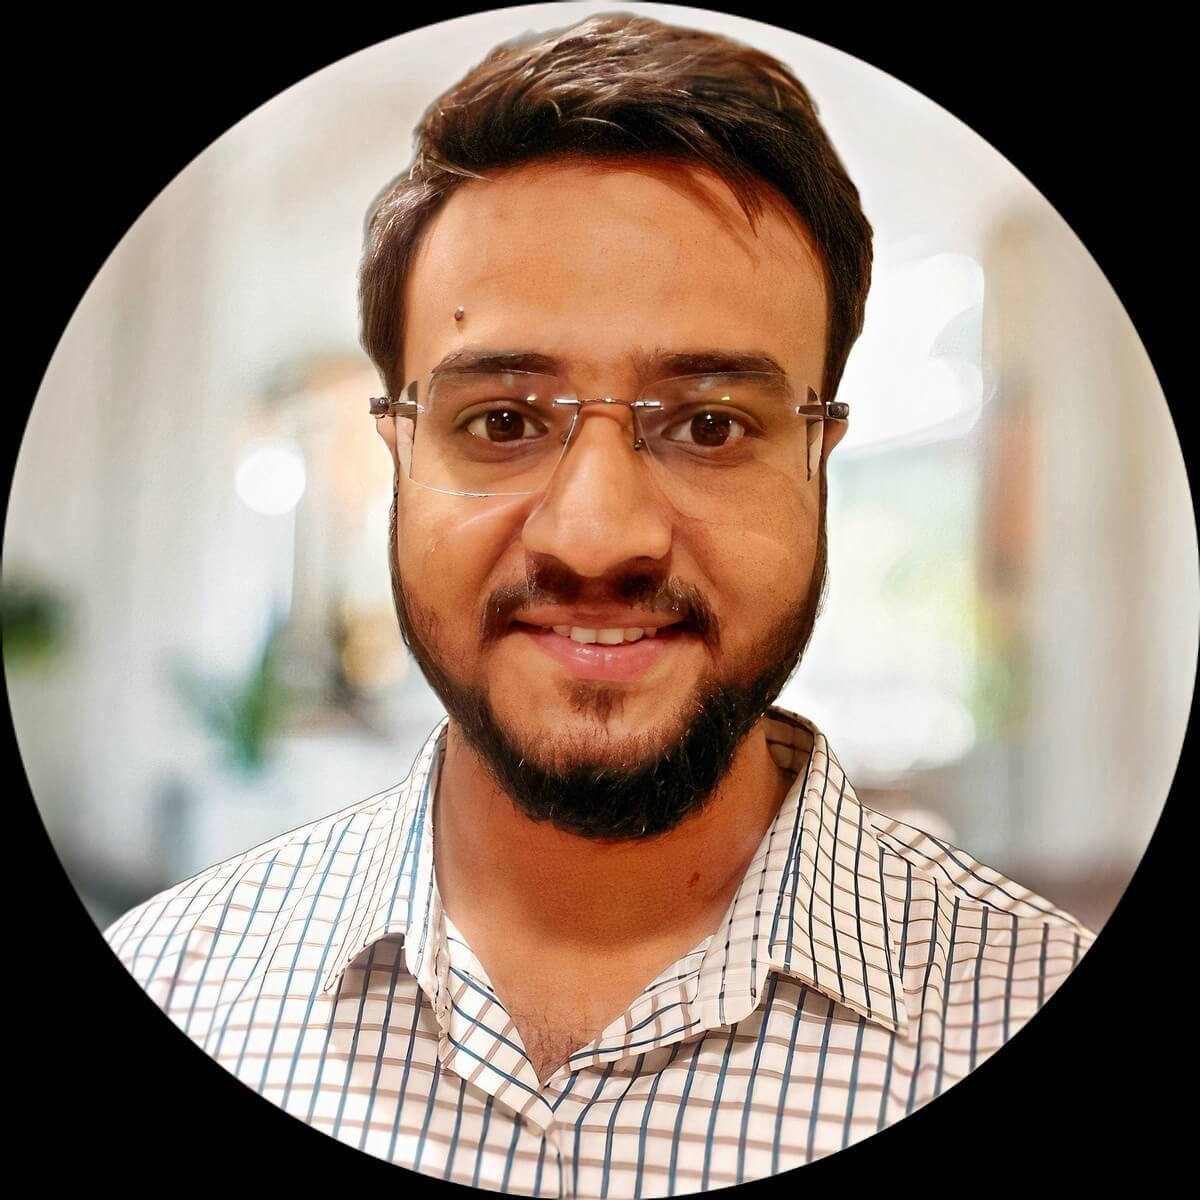
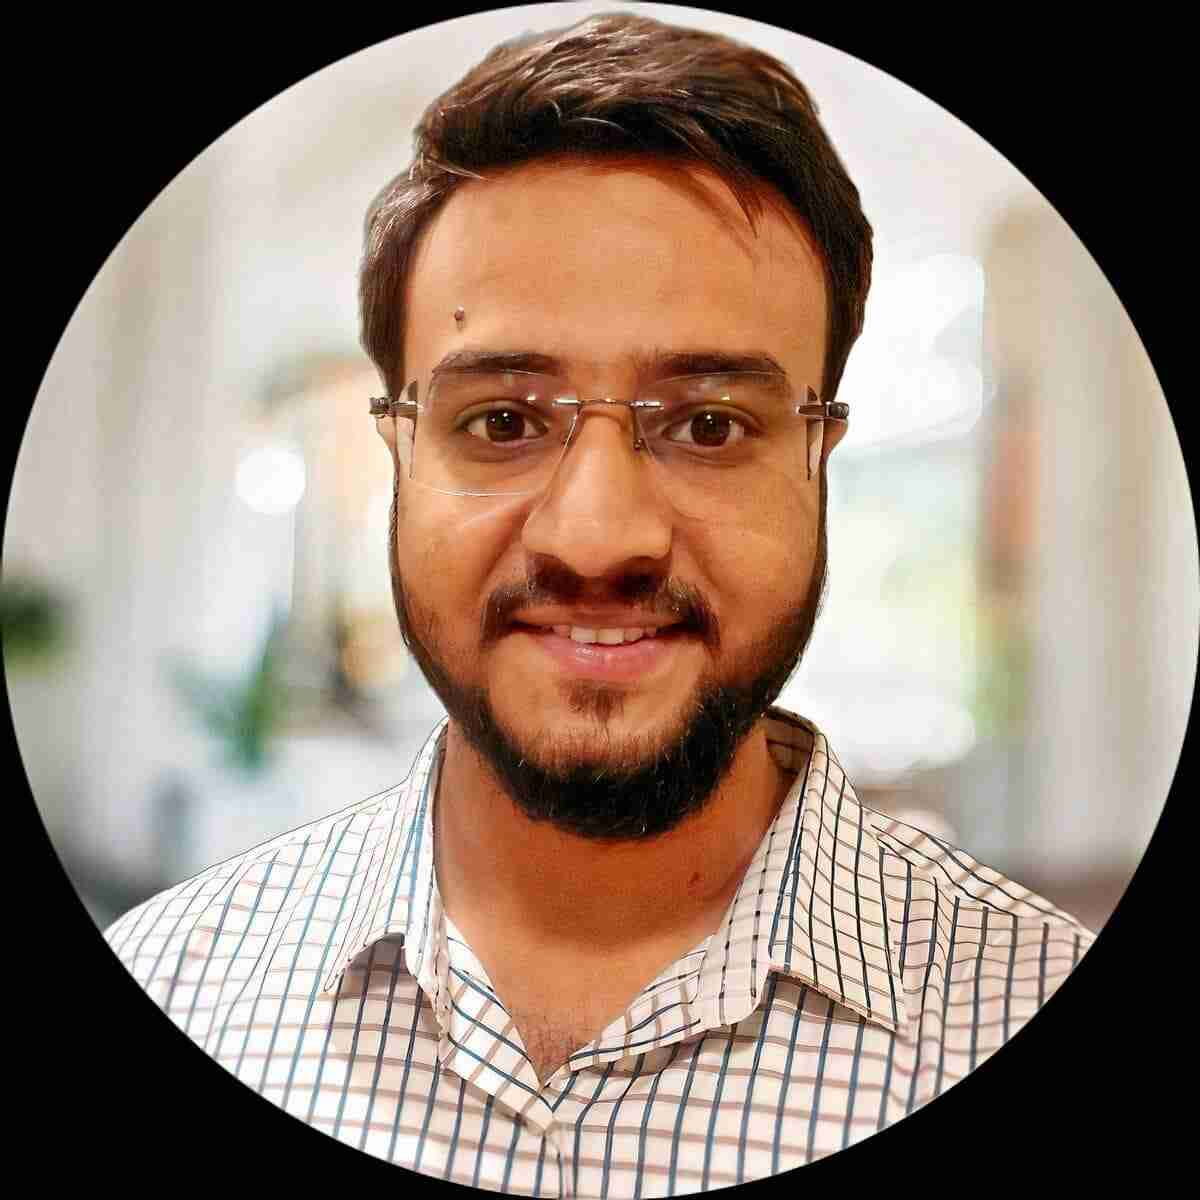
Hero-screen added

diff --git a/src/app/components/hero-section/hero-section.component.css b/src/app/components/hero-section/hero-section.component.css
@@ -1,0 +1,78 @@
+.hero-section {
+    display: flex;
+    align-items: center;
+    justify-content: space-between;
+    flex-wrap: wrap;
+    margin-top: 50px;
+}
+
+.info-section {
+    color: white;
+    font-family: 'Courier Prime', sans-serif;
+    flex: 1;  /* Allows flexible width */
+    max-width: 80%;  /* Prevents it from stretching too much */
+}
+
+/* Avatar Section - Visible only on large screens */
+.avatar-section {
+    flex: 1;
+    display: flex;
+    justify-content: center;
+}
+
+
+
+#avatar {
+    width: 450px;
+    height: 450px;
+    border-radius: 50%; /* Makes the container circular */
+    overflow: hidden; /* Ensures any extra parts of the image are cut */
+    display: flex;
+    justify-content: center;
+    align-items: center;
+}
+
+#avatar img {
+    width: 100%;
+    height: 100%;
+    object-fit: cover; /* Ensures the image fills the circular container while cropping excess */
+}
+
+
+.dot {
+    border-radius: 50%;
+    margin-right: 6px; /* Reduce spacing */
+    font-size: 0.6em;  /* Ensures FontAwesome icon scales properly */
+}
+
+  
+  .orange-dot {
+    color: var(--terminal-orange-dot);
+  }
+  
+  .yellow-dot {
+    color: var(--terminal-yellow-dot);
+  }
+  
+  .green-dot {
+    color: var(--terminal-green-dot);
+  }
+
+
+
+
+
+
+/* Responsive Adjustments */
+@media (max-width: 1130px) {  
+    .hero-section {
+        flex-direction: column; /* Stack vertically */
+        text-align: center; /* Center align */
+    }
+    .info-section {
+        max-width: 100%; /* Full width */
+    }
+    .avatar-section {
+        display: none; /* Hide avatar section */
+    }
+}

diff --git a/src/app/components/hero-section/hero-section.component.html b/src/app/components/hero-section/hero-section.component.html
@@ -1,0 +1,25 @@
+<div id="home" class="hero-section ml-1">
+    <div class="info-section">
+        <h1>Hey! I'm <span class="text-light-beige">Mudar Hussain</span></h1>
+        <br/>
+        <h4>
+            <i class="dot orange-dot fa-solid fa-circle"></i> 
+            <span class="text-light-beige">F</span>ull-<span class="text-light-beige">S</span>tack 
+            <i class="dot yellow-dot fa-solid fa-circle"></i> 
+            <span class="text-light-beige">S</span>ystem <span class="text-light-beige">A</span>rchitect 
+            <i class="dot green-dot fa-solid fa-circle"></i> 
+            <span class="text-light-beige">T</span>ech <span class="text-light-beige">E</span>nthusiast
+        </h4>
+        <br/>
+        <i class="fa-solid fa-terminal"></i><h5>Whether it's designing a scalable systems, optimizing code, or crushing a <span class="text-light-beige">LeetCode</span> problem, I love what I do!</h5>
+        <br/>
+        <i class="fa-solid fa-terminal"></i><h5>I specialize in <span class="text-light-beige">Angular</span>, <span class="text-light-beige">Java</span>, and backend development and have a passion for system design.</h5>
+        <br/>
+        <i class="fa-solid fa-terminal"></i><h5>When I'm not <span class="text-light-beige">coding</span>, you'll probably find me exploring new tech trends or competing in coding <span class="text-light-beige">contests</span>.</h5>
+    </div>
+    <div class="avatar-section">
+        <div id="avatar">
+            <img src="../../../assets/avatar.jpg" alt="">
+        </div>
+    </div>
+</div>

diff --git a/src/app/app.module.ts b/src/app/app.module.ts
@@ -22,6 +22,7 @@ import { FooterComponent } from './shared/footer/footer.component';
 import { RestrictUserActionsDirective } from './directives/restrict-user-actions.directive';
 import { ContactComponent } from './components/contact/contact.component';
 import { LoadingScreenComponent } from './components/loading-screen/loading-screen.component';
+import { HeroSectionComponent } from './components/hero-section/hero-section.component';
 
 @NgModule({
   declarations: [
@@ -35,7 +36,8 @@ import { LoadingScreenComponent } from './components/loading-screen/loading-scre
     FooterComponent,
     RestrictUserActionsDirective,
     ContactComponent,
-    LoadingScreenComponent
+    LoadingScreenComponent,
+    HeroSectionComponent
   ],
   imports: [
     BrowserModule,

diff --git a/src/app/components/hero-section/hero-section.component.spec.ts b/src/app/components/hero-section/hero-section.component.spec.ts
@@ -1,0 +1,21 @@
+import { ComponentFixture, TestBed } from '@angular/core/testing';
+
+import { HeroSectionComponent } from './hero-section.component';
+
+describe('HeroSectionComponent', () => {
+  let component: HeroSectionComponent;
+  let fixture: ComponentFixture<HeroSectionComponent>;
+
+  beforeEach(() => {
+    TestBed.configureTestingModule({
+      declarations: [HeroSectionComponent]
+    });
+    fixture = TestBed.createComponent(HeroSectionComponent);
+    component = fixture.componentInstance;
+    fixture.detectChanges();
+  });
+
+  it('should create', () => {
+    expect(component).toBeTruthy();
+  });
+});

diff --git a/src/app/shared/navbar/navbar.component.html b/src/app/shared/navbar/navbar.component.html
@@ -11,7 +11,7 @@
     <div class="collapse navbar-collapse" id="navbarNav">
       <ul class="navbar-nav ms-auto">
         <li class="nav-item">
-          <a class="nav-link" href="#">Home</a>
+          <a class="nav-link" href="#home">Home</a>
         </li>
         <li class="nav-item">
           <a class="nav-link" href="#terminal">Terminal</a>
@@ -29,6 +29,9 @@
           <a class="nav-link" href="#contact">Contact</a>
         </li>
       </ul>
+    <button class="custom-bottom">
+      <i class="fa-solid fa-download"></i> Resume
+    </button>
     </div>
   </div>
 </nav>

diff --git a/src/app/app.component.html b/src/app/app.component.html
@@ -1,6 +1,7 @@
 <div [ngClass]="isWindow ? 'container-window' : 'container-mobile'" appRestrictUserActions>
     <app-navbar></app-navbar>
     <app-loading-screen></app-loading-screen>
+    <app-hero-section></app-hero-section>
     <app-terminal></app-terminal>
     <app-contact></app-contact>
     <app-footer></app-footer>

diff --git a/src/app/components/hero-section/hero-section.component.ts b/src/app/components/hero-section/hero-section.component.ts
@@ -1,0 +1,10 @@
+import { Component } from '@angular/core';
+
+@Component({
+  selector: 'app-hero-section',
+  templateUrl: './hero-section.component.html',
+  styleUrls: ['./hero-section.component.css']
+})
+export class HeroSectionComponent {
+
+}

diff --git a/src/app/components/contact/contact.component.html b/src/app/components/contact/contact.component.html
@@ -1,4 +1,4 @@
-<div class="contact-container">
+<div id="contact" class="contact-container">
   <div class="form-section">
     <h2>Contact <span class="text-light-beige">Me</span></h2>
     <p>Let's Build Something Amazing Together!</p>
